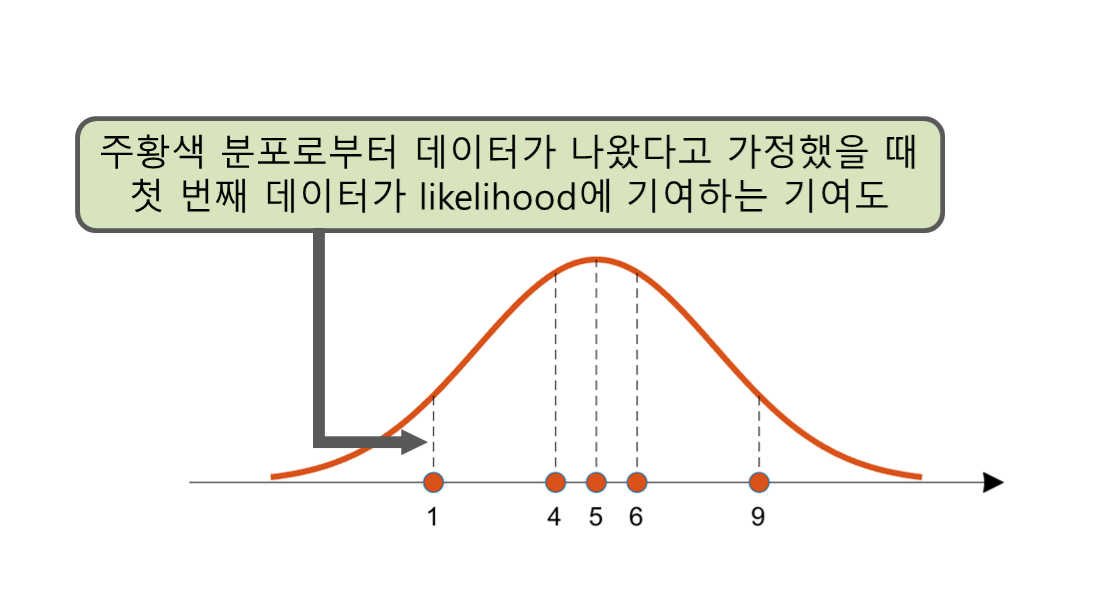
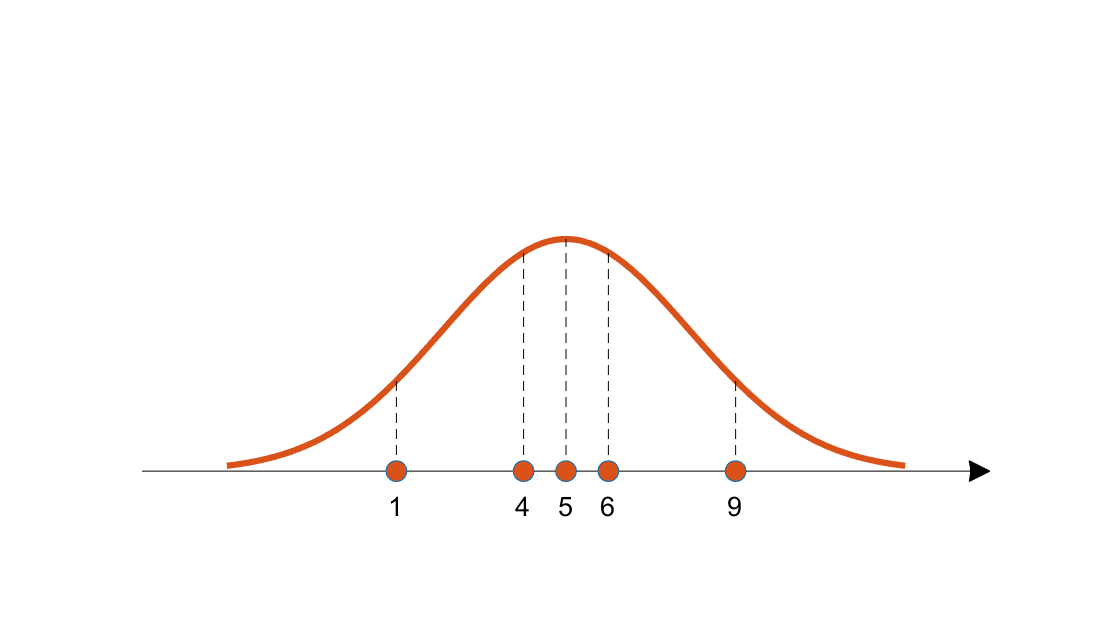
MCMC 작성 중

diff --git a/pics/2020-09-17-MCMC/mArrow2.m b/pics/2020-09-17-MCMC/mArrow2.m
@@ -1,0 +1,9 @@
+
+function [ h ] = mArrow2(x1,y1,x2,y2,props)
+
+h = annotation('arrow');
+set(h,'parent', gca, ...
+    'position', [x1,y1,x2-x1,y2-y1], ...
+    'HeadLength', 10, 'HeadWidth', 10, 'HeadStyle', 'cback1', ...
+    props{:} );
+end

diff --git a/_posts/2020-09-17-MCMC.md b/_posts/2020-09-17-MCMC.md
@@ -343,7 +343,11 @@ xlabel('x');
 
 그러면 이 제안분포에서 샘플링을 통해 새로운 mean 값을 추천받을 수 있다.
 
-[//]:# (그림 7. 제안 분포로부터 새로운 mean값을 추천 받는 과정)
+<p align = "center">
+  <img src = "https://raw.githubusercontent.com/angeloyeo/angeloyeo.github.io/master/pics/2020-09-17-MCMC/pic7.png">
+  <br>
+  그림 7. $\mu=\mu_{old}$가 중심인 제안 분포로부터 새로운 샘플을 추출해 새로운 $\mu$를 추천받을 수 있다.
+</p>
 
 ### 3. 추천 받은 제안에 대한 수락 혹은 거절
 
@@ -416,7 +420,21 @@ $$식(8)\Rightarrow
 
 [//]:# (수식 13)
 
-식 (13)을 보면 $\sigma$와 $\mu_{new}$, $\mu_{old}$는 모두 주어져 있기 때문에 계산을 하는데 아무런 문제가 없지만 $P(\mu=\mu_{new})$나 $P(\mu=\mu_{old})$와 같은 prior는 어떻게 계산 해주어야 할까?
+그럼 식 (13)이 의미하는 바는 무엇일까?
+
+이것은 주어진 데이터에 대해 $\mu=\mu_{old}$인 경우와 $\mu=\mu_{new}$인 경우의 likelihood $\times$ prior를 비교한 것과 같다는 것을 알 수 있다.
+
+아래의 그림 8에서는 기존의 $\mu = \mu_{old}$인 경우와 $\mu=\mu_{new}$인 경우의 target 분포에 대해 모든 데이터로부터 likelihood 값을 얻는 과정을 보여주고 있다.
+
+<p align = "center">
+  <img src = "https://raw.githubusercontent.com/angeloyeo/angeloyeo.github.io/master/pics/2020-09-17-MCMC/pic8.png">
+  <br>
+  그림 8. $\mu=\mu_{old}$인 경우와 $\mu=\mu_{new}$ 인 경우에 대해 모든 데이터의 likelihood들을 곱해주는 과정
+</p>
+
+비록 그림 8에서는 5개의 데이터만 보여주었지만, $\mu=\mu_{old}$인 경우에 비해 $\mu=\mu_{new}$인 경우가 실제 모평균 값(10)과 더 가깝기 때문에 더 likelihood(확률밀도함수의 높이)가 큰 데이터들이 많고 실제로 likelihood를 모두 곱해준 뒤 prior와 곱해 비교해주면 $\mu=\mu_{new}$로 추천한 것이 채택될 수 있을 것이다.
+
+이제, 식 (13)을 보면 $\sigma$와 $\mu_{new}$, $\mu_{old}$는 모두 주어져 있기 때문에 계산을 하는데 아무런 문제가 없지만 $P(\mu=\mu_{new})$나 $P(\mu=\mu_{old})$와 같은 prior는 어떻게 계산 해주어야 할까?
 
 [베이즈 정리의 의미](https://angeloyeo.github.io/2020/01/09/Bayes_rule.html)편이나 [Naive Bayes 분류기](https://angeloyeo.github.io/2020/08/04/naive_bayes.html) 편에서 보았던 것 처럼 Prior는 일종의 사전지식으로, 여기서는 굉장히 사소하더라도 $\mu$ 값에 대한 정보를 입력해주면 된다.
 
@@ -429,6 +447,21 @@ $$P(\mu) = \begin{cases}1 && \text{if }\mu\gt 0 \\ 0 && \text{otherwise}\end{cas
 어찌되었든 우리는 식 (13)을 만족할 때 새로 추천 받은 $\mu_{new}$를 수용할 것이고 그렇지 못한 경우는 reject 할 것이다.
 
 하지만, MCMC를 이용한 Bayesian Estimation에서도 Sampling method 때와 마찬가지로 패자부활전을 거칠 수 있다.
+
+### 4. 패자부활전
+
+만약 식 (13)을 만족하지 못한 경우에는 샘플링 method때와 마찬가지로 패자부활전을 거칠 수 있다.
+
+이 때, $[0,1]$의 interval을 가지는 uniform distribution $U_{[0, 1]}$으로부터 추출한 $u$에 대해서 다음을 만족할 경우 $\mu_{new}$로 수용할 수 있다.
+
+
+$$
+\frac{\sum_{i=1}^{N}\left\lbrace-\sigma\sqrt{2\pi}-\frac{(d_i-\mu_{new})^2}{2\sigma^2}\right\rbrace + P(\mu = \mu_{new})}
+{\sum_{i=1}^{N}\left\lbrace-\sigma\sqrt{2\pi}-\frac{(d_i-\mu_{old})^2}{2\sigma^2}\right\rbrace + P(\mu = \mu_{old})} > u \notag$$
+
+$$\text{where } u \sim U_{[0, 1]}$$
+
+
 
 
 
